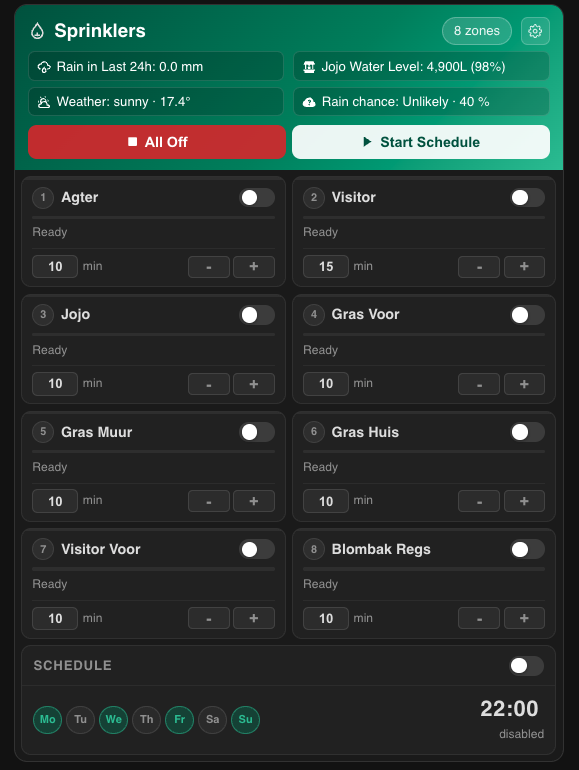
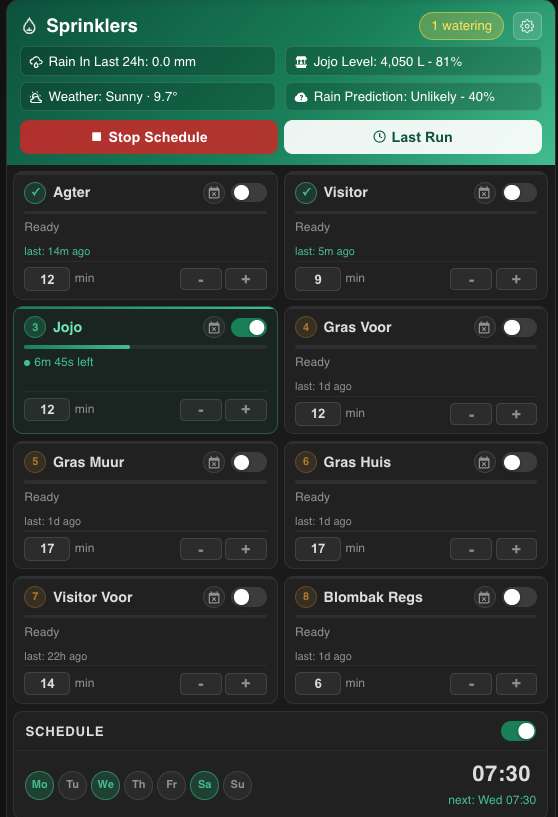
docs: update main screenshot, add zone expand popup screenshot

diff --git a/README.md b/README.md
@@ -21,9 +21,13 @@ A fully self-contained smart irrigation dashboard card for Home Assistant. Zero 
 |---|---|---|
 | ![Main](Sprinkler1.png) | ![Zones](Sprinkler2.png) | ![Schedule](Sprinkler3.png) |
 
-| Skip Next Run | Settings — General | Settings — Rules & Info Bar |
+| Skip Next Run | Zone Expand Popup | Settings — General |
 |---|---|---|
-| ![Skip Next Run](Sprinkler_exclude_next_run.png) | ![Settings 1](Sprinkler_Settings1.png) | ![Settings 2](Sprinkler_Settings2.png) |
+| ![Skip Next Run](Sprinkler_exclude_next_run.png) | ![Zone Expand](Sprinkler4.png) | ![Settings 1](Sprinkler_Settings1.png) |
+
+| Settings — Rules & Info Bar |
+|---|
+| ![Settings 2](Sprinkler_Settings2.png) |
 
 ---
 
